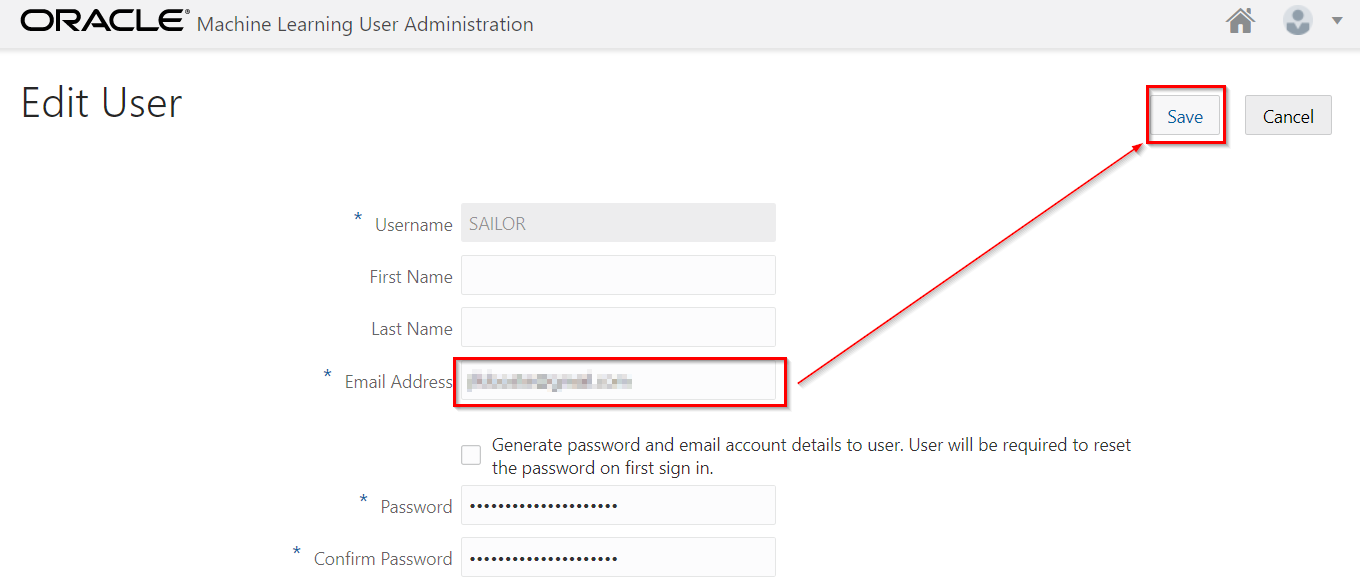
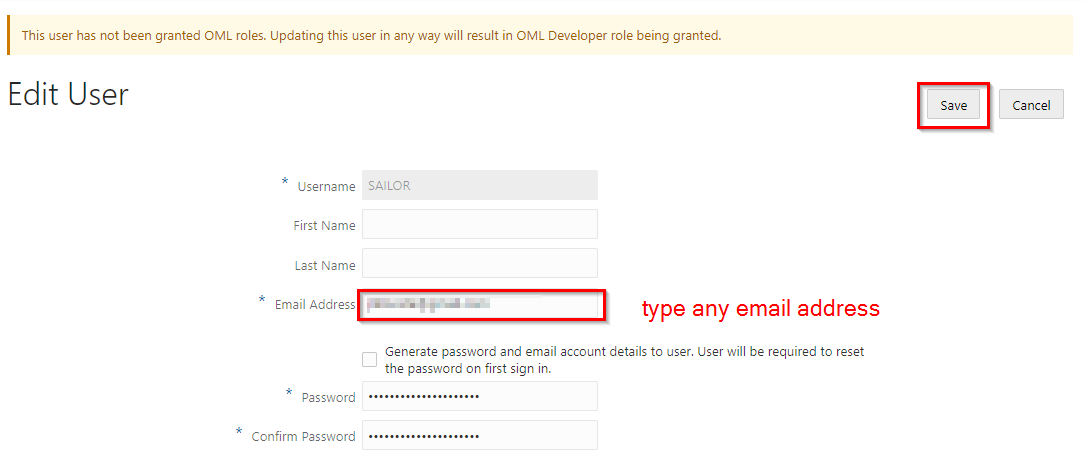
Finished schema preparation, made progress with ML lab

diff --git a/analytics-library/sailgp/ml/ml.md b/analytics-library/sailgp/ml/ml.md
@@ -124,7 +124,7 @@ In the past we've gone onto the water with our boat many times in different wind
 
    But luckily for us, Machine Learning is great at extracting these type of patterns! It is able to cut through the noise and find relationships between variables!
 
-## **STEP 3:** Machine Learning - Building the model
+## **STEP 3:** Machine Learning - Setup the Machine Learning user
 
 1. Open the Autonomous Data Warehouse.
 
@@ -136,27 +136,60 @@ In the past we've gone onto the water with our boat many times in different wind
 
    ![ADW Menu](images/open-sailgp.png)
 
-3. Open the Service Console
+3. Open the Service Console.
 
    ![pic1](images/open-service-console.png)
 
-4. Choose Development > Oracle Machine Learning Notebooks.
+4. Choose Administration > Manage Oracle ML Users.
+
+   ![pic1](images/manage-ml-users.png)
+
+   Sign in with **ADMIN**, password **Oracle_12345**
+
+5. Check "Show All Users", then click on the **SAILOR** user.
+
+   ![pic1](images/select-ml-user.png)
+
+6. Choose any email address (it's not relevant). By pressing Save we will enable the ML capabilities for this user. **Don't update any of the other fields**.
+
+   ![pic1](images/save-sailor.png)
+
+   Press **Save**. You've now enabled the SAILOR user to use the Machine Learning functionality of Autonomous Data Warehouse.
+
+## **STEP 4:** Machine Learning - Building the model
+
+<!--1. Open the Autonomous Data Warehouse.
+
+   From the Oracle Console, click **Oracle Database** > **Autonomous Data Warehouse**.
+
+   ![ADW Menu](images/adw-menu.png)
+
+2. Click on the SAILGP database that you created earlier.
+
+   ![ADW Menu](images/open-sailgp.png)
+-->
+
+1. In the console of the Autonomous Datawarehouse, open the Service Console.
+
+   ![pic1](images/open-service-console.png)
+
+2. Choose Development > Oracle Machine Learning Notebooks.
 
    ![pic1](images/start-oml.png)
 
-5. Sign in with the user **SAILOR**, password **Oracle_12345**
+3. Sign in with the user **SAILOR**, password **Oracle_12345**
 
    ![pic1](images/sign-in-sailor.png)
 
-6. Start AutoML
+4. Start AutoML
 
    ![pic1](images/start-automl.png)
 
-7. Select **Create Experiment**
+5. Select **Create Experiment**
 
    ![pic1](images/create-experiment.png)
 
-8. Now we have to select how to train our model.
+6. Now we have to select how to train our model.
    The table in which we have our measurements to train on is SAILOR.SGP_SAIL_HISTORY.
    We want to predict **boat speed** from **wind speed** and **wind angle**, therefore for "Predict" select BOAT_SPEED and in the features select WIND_ANGLE and WIND_SPEED. We will use PK as a way to uniquely identify each measurement.
 
@@ -164,17 +197,21 @@ In the past we've gone onto the water with our boat many times in different wind
 
    ![pic1](images/configure-experiment.png)
 
-9. Lastly, in the Additional Settings, set Database Service Level to "High". This will help us build the model faster.
+7. Lastly, in the Additional Settings, set Database Service Level to "High". This will help us build the model faster.
 
    ![pic1](images/service-level.png)
 
-10. Now start the training of the model.
+8. Now start the training of the model.
 
     On the top right choose "Start" > "Faster Results".
 
    ![pic1](images/save-start.png)
 
-11. The training will take several minutes. During this time, AutoML tries out several different ML algorithms, with different configurations.
+9. Use the three small dots to open the window with progress of the training process.
+
+    ![pic1](images/learning-summary.png)
+
+10. The training will take several minutes. During this time, AutoML tries out several different ML algorithms, with different configurations.
 
     The value under "Negative Mean Squared Error" is an indicator of the accuracy of the model.
 
@@ -182,11 +219,13 @@ In the past we've gone onto the water with our boat many times in different wind
 
     We will use the **Support Vector Machine (Gaussian) model**.
 
-    **Make a note of the exact model name, including the number. You will need this later.**
+    **IMPORTANT: Make a note of the exact model name, including the number. You will need this later.**
 
-## **STEP 3:** Machine Learning - Predicting boat speed in Oracle Analytics Cloud
+## **STEP 5:** Machine Learning - Predicting boat speed in Oracle Analytics Cloud
 
 Now it's time to make predictions with the model. We will make a prediction for a combination of wind speeds (5, 10, 15, 20 and 25 mph) and range of wind angles (0-180 degrees with 1 degree increments).
+
+The following assumes you already have Oracle Analytics Cloud open in your browser. If not, you can find instructions in Step 2 on how to open it.
 
 1. Create a new dataset.
 
@@ -206,32 +245,79 @@ Now it's time to make predictions with the model. We will make a prediction for 
 
    ![pic1](images/click-table.png)
 
-5.
+5. Save the Data Set, call it "To Predict".
 
    ![pic1](images/save-dataset.png)
 
+6. Go back to the Home Page.
+
    ![pic1](images/to-homepage.png)
+
+7. Now we need to make the Machine Learning model that we built in the database available to Oracle Analytics Cloud.
+
+   Choose Create > Register ML Model.
 
    ![pic1](images/register-ml-model.png)
 
+8. Now select the model starting with SVMG. Check that it has the same name that you created earlier. Then press "Register".
+
    ![pic1](images/register3.png)
+
+9. Now it's time to predict the boat speeds for all the combinations of wind speed and wind angle in the "To Predict" dataset. We can do this with Data Flows. Data Flows let us create a series of steps in which we can manipulate data in sequence, or in this case, apply a ML model to data.
+
+   Create a new Data Flow.
 
    ![pic1](images/create-df.png)
 
+10. Select the "To Predict" Data Set as the input for the Data Flow.
+
    ![pic1](images/select-to-predict.png)
+
+11. Click on the "+" icon next to the "To Predict" Data Set and add an "Apply Model" step.
 
    ![pic1](images/add-apply-model.png)
 
+12. Choose the model that we registered earlier.
+
+   ![pic1](images/select-model.png)
+
+   See how the Wind Speed and Wind Angle are automatically lined up with the input features of the model.
+
+13. Add a step to save the resulting data to a new Data Set.
+
    ![pic1](images/save-data.png)
+
+14. Fill in the following details on the "Save Data" step.
+
+   > Data Set: Predicted Boat speed
+
+   > Table: SGP_PREDICTED
 
    ![pic1](images/save-df0.png)
 
+   Then press Save.
+
+15. Give the Data Flow the name "Prediction Data Flow".
+
    ![pic1](images/save-df2.png)
 
+16. On the top right, click on the play button to start the Data Flow.
 
-2. Go to **Menu** > **XXX** > **XXX**.
+    ![pic1](images/run-df.png)
 
-   ![pic1](images/pic_1.png)
+    This may take a few minutes. You should see a message that the Data Flow completed successfully.
+
+17. Go back to the Home Page.
+
+    ![pic1](images/to-homepage2.png)
+
+18. Open the new Data Set by clicking on Data, then on the ribbon of "Predicted Boat Speed" and select "Open".
+
+    ![pic1](images/open-predicted.png)
+
+
+(must change prediction to metric)
+
 
    > Note: XXX.
 
@@ -288,6 +374,13 @@ Now it's time to make predictions with the model. We will make a prediction for 
    ![pic4](images/pic_4.png)
 
 7. **Download** the dataset <a href="https://objectstorage.eu-frankfurt-1.oraclecloud.com/p/27PK5yRJp6ikvVdli-21D0vTwNywA0Q1aUPD2RQ7G8rtbPQwO2onh7TaZjfjawPj/n/odca/b/workshops-livelabs-do-not-delete/o/mds-di-ds-reef_life_survey_fish.csv" target="\_blank">File To Download</a>.
+
+
+
+
+
+
+
 
 8. On **XXX**, create `xxxx` xxxx.
 

diff --git a/analytics-library/sailgp/prepare-schema/prepare-schema.md b/analytics-library/sailgp/prepare-schema/prepare-schema.md
@@ -31,7 +31,7 @@ This new user/schema will hold the SailGP data.
 
    ![ADW Menu](images/open-database-actions.png)
 
-   Login with user ADMIN, password Oracle12345! (you specified this upon creation of the Autonomous Data Warehouse earlier).
+   Login with user **ADMIN**, password **Oracle_12345** (you specified this upon creation of the Autonomous Data Warehouse earlier).
 
 4. Open the SQL option.
 
@@ -80,13 +80,13 @@ This new user/schema will hold the SailGP data.
 
 1. **Download** the three files that contain the data that we'll use in our analysis: [File 1](data/sgp_strm_pivot.csv), [File 2](data/sgp_sail_history.csv) and [File 3](data/sgp_windspeed_and_windangles.csv). Save the files on your local machine. Depending on your browser, you may have to use Right Click. Make sure that the files are saved with extension `.csv`.
 
-2. Next, again go to the Database Actions, but this time use the new **SAILOR** user.
+2. Next, again go to the Database Actions.
 
    You should still have a browser tab open with the main page of the Autonomous Datawarehouse service. If not, navigate to this page first. Then, open Database Actions.
 
    ![Open Database Actions](images/open-database-actions.png)
 
-   Login with user **SAILOR**, password Oracle_12345 (you specified this earlier when you created the user).
+   **IMPORTANT: This time, login with user SAILOR, password Oracle_12345 (Don't login with ADMIN**)
 
 3. Click to the Data Load option.
 
@@ -104,7 +104,7 @@ This new user/schema will hold the SailGP data.
 
     ![Start Load Process](images/load-data.png)
 
-7. Load completed
+7. This process takes between 10-30 seconds.
 
     ![Load Completed](images/load-completed.png)
 

diff --git a/analytics-library/sailgp/analytics/analytics.md b/analytics-library/sailgp/analytics/analytics.md
@@ -49,8 +49,8 @@ Therefore we need to create a connection from Oracle Analytics Cloud to Autonomo
 
 5. Type the password, confirm the password by typing it again and click **Download**.
 
-      - Password: `Oracle_12345`
-      - Confirm Password: `Oracle_12345`
+      - Password: **Oracle_12345**
+      - Confirm Password: **Oracle_12345**
 
    ![AWD Wallet Password](images/adw_wallet_password.png)
 
@@ -87,7 +87,7 @@ Therefore we need to create a connection from Oracle Analytics Cloud to Autonomo
     >
     > **Username**: SAILOR
     >
-    > **Password**: OracleCloud12345! (we specified this when we created the SAILOR user before)
+    > **Password**: Oracle_12345
     >
     > **Service Name**: Keep the default, the name of your database followed by the \_high suffix.
     >
